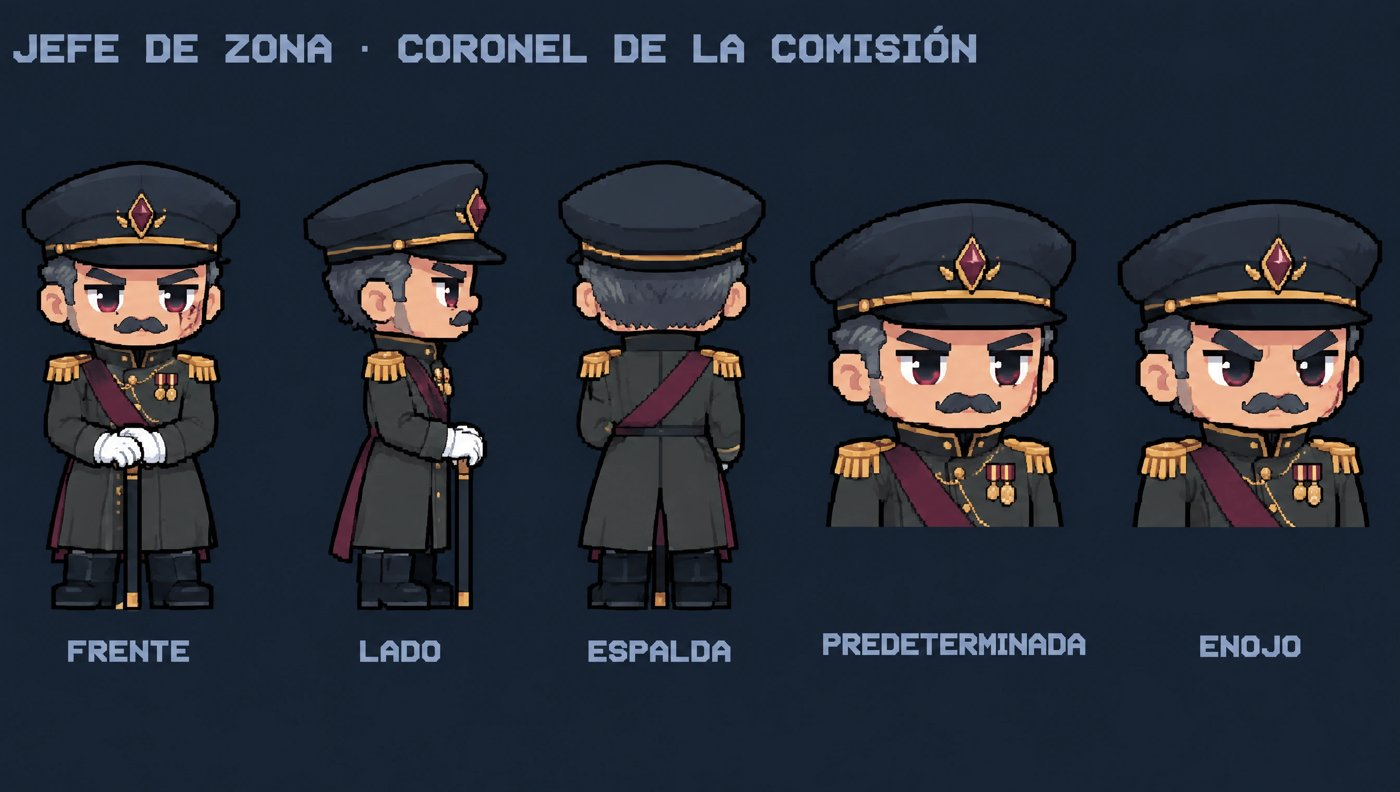
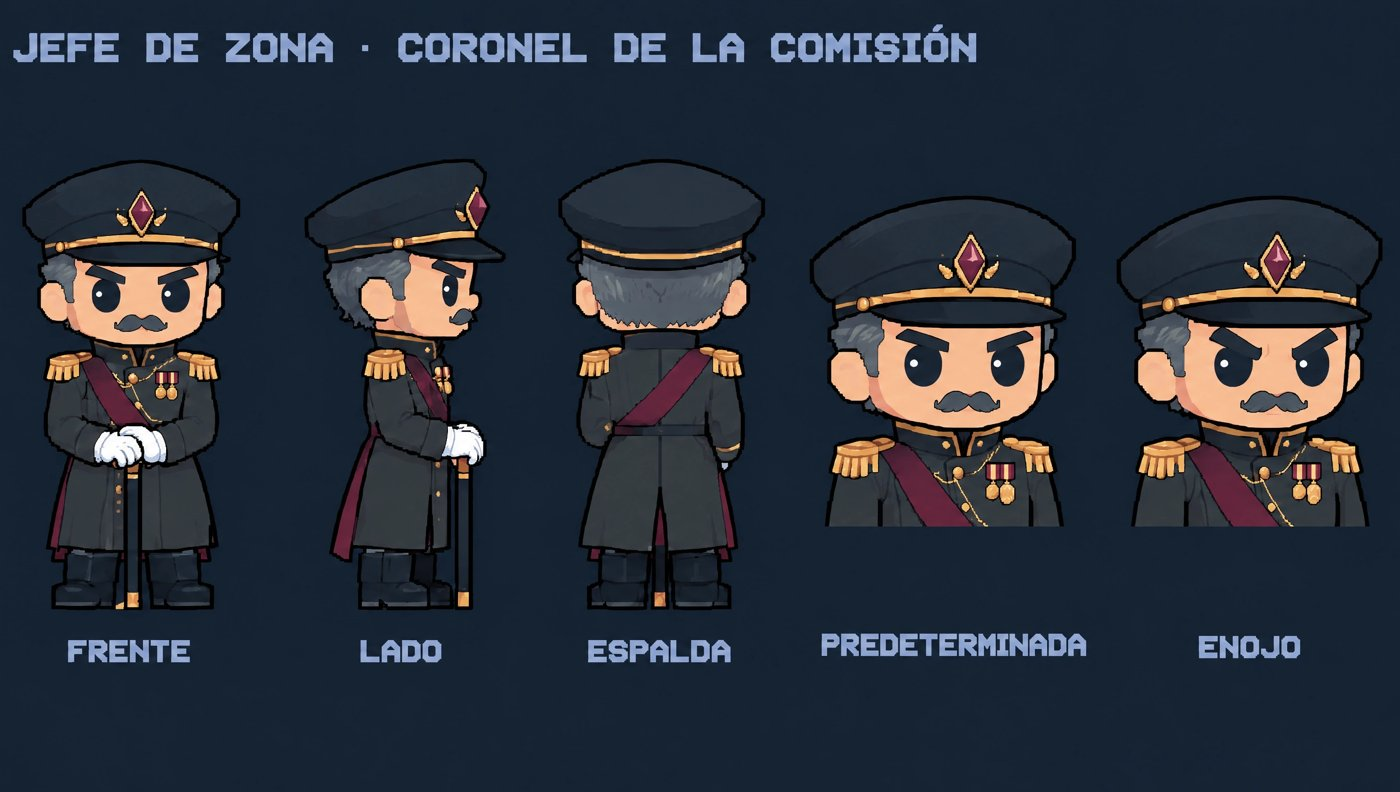
docs(arte): F0-69 ajusta el arma del cabecilla, la cápsula del cazarrecompensas y la cara del coronel

diff --git a/studio/docs/12-direccion-de-arte.md b/studio/docs/12-direccion-de-arte.md
@@ -152,11 +152,13 @@ El juego es **horizontal (landscape)**. Catorce imágenes en `studio/assets-ref/
 | Zona | Jefe | Rasgos que lo hacen reconocible |
 |---|---|---|
 | Galerías del Hollín | Capataz Mayor | Bombín con lámpara de latón, bigote gris, chaleco vinotinto, silbato y bastón con punta de hierro |
-| Cañón Ferroso | Cabecilla de la banda rival | Pañuelo rojo, gabán naranja óxido, hombrera de hierro remachada, cinturón de cadena y garrote liso |
+| Cañón Ferroso | Cabecilla de la banda rival | Pañuelo rojo, gabán naranja óxido, hombreras de hierro remachadas, cinturón de cadena y garrote liso en la mano derecha apoyado en el suelo |
 | Minas de Sierra Alta | Jefe de seguridad del Consorcio | Abrigo azul pizarra con cuello de piel, gorra con gafas de aviador subidas, brazalete vinotinto y porra |
 | Salares del Litoral | Aduanero Mayor | Uniforme beige manchado de sal, banda vinotinta, medalla de latón, libro de registro y sello |
-| Cavernas de Cristal | Cazarrecompensas Mayor | Gabán carbón, sombrero con cristal cian, hombrera de cristal vino, grilletes en el cinturón y espuelas |
+| Cavernas de Cristal | Cazarrecompensas Mayor | Gabán carbón, sombrero con cristal cian, grilletes en el cinturón, espuelas y, en el collar, una cápsula de cristal sellada con un fragmento de éter a la vista |
 | La Fosa del Éter | Coronel de la Comisión | Capote verde oliva oscuro, charreteras doradas, gorra con broche de cristal, guantes blancos y bastón negro |
+
+✅ **Regla del éter en el arte:** el éter nunca va suelto sobre el cuerpo de un personaje sano. Solo aparece contenido en una cápsula de cristal sellada, o en los mutados de La Fosa.
 
 El ministro Dueñas sigue siendo el antagonista narrativo y no tiene duelo de jefe.
 
